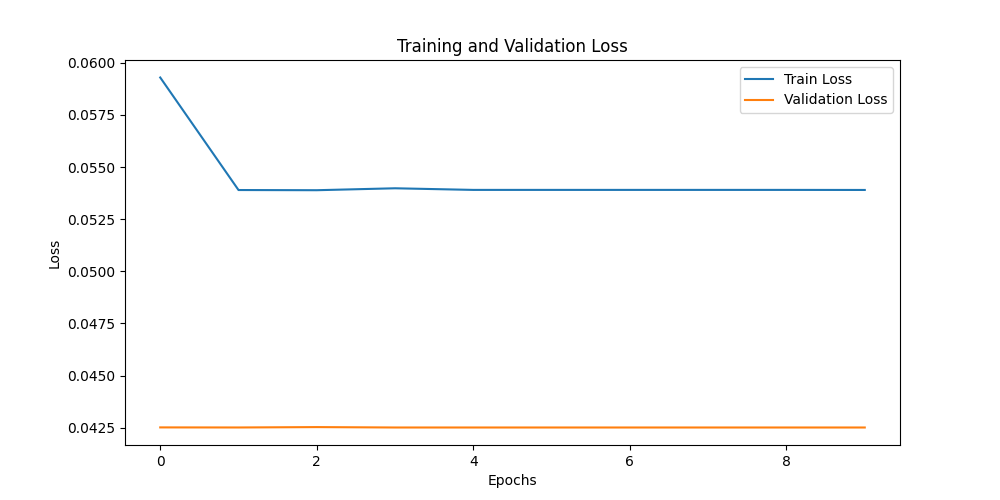
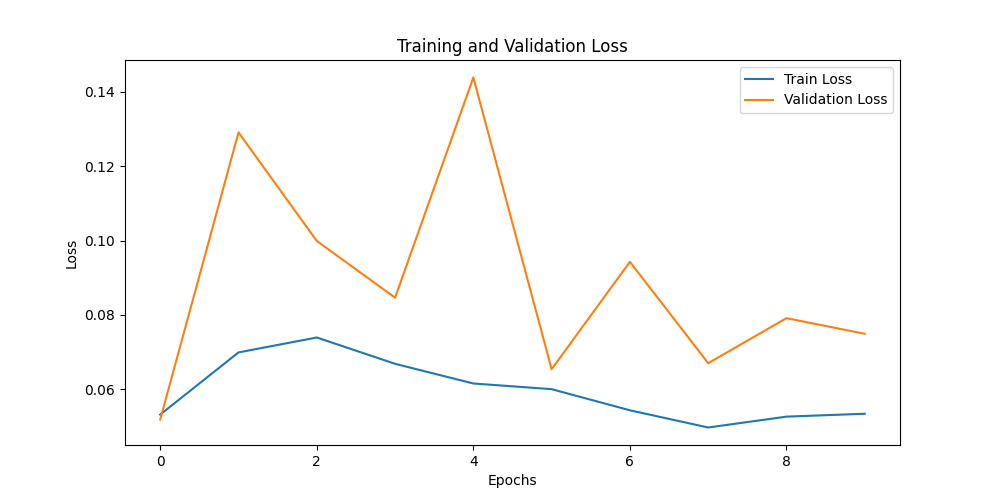
update

diff --git a/utils/trainer.py b/utils/trainer.py
@@ -1,16 +1,21 @@
 import torch
 from tqdm import tqdm
 
-# Función para calcular el MAE
 def calculate_mae(predictions, targets):
     return torch.mean(torch.abs(predictions - targets))
+
+
+def calculate_mse(predictions, targets):
+    return torch.mean((predictions - targets)**2)
 
 
 def train(epochs, model, train_dataloader, val_dataloader, optimizer, device, scheduler=None, save_every_n_epochs=5):
     history_train_loss = []
     history_train_mae = []
+    history_train_mse = []
     history_val_loss = []
     history_val_mae = []
+    history_val_mse = []
 
     # Bucle de entrenamiento y validación
     for epoch in range(epochs):
@@ -18,8 +23,9 @@ def train(epochs, model, train_dataloader, val_dataloader, optimizer, device, sc
         model.train()
         running_loss = 0.0
         running_mae_train = 0.0
+        running_mse_train = 0.0
 
-        for inputs, targets in tqdm(train_dataloader, desc=f"train epoch {epoch+1}"):
+        for inputs, targets in tqdm(train_dataloader, desc=f"train epoch {epoch}"):
             inputs, targets = inputs.to(device), targets.to(device)
             optimizer.zero_grad()
 
@@ -33,39 +39,46 @@ def train(epochs, model, train_dataloader, val_dataloader, optimizer, device, sc
 
             running_loss += loss.item()
             running_mae_train += calculate_mae(outputs, targets).item()
+            running_mse_train += calculate_mse(outputs, targets).item()
 
         average_loss_train = running_loss / len(train_dataloader)
         average_mae_train = running_mae_train / len(train_dataloader)
+        average_mse_train = running_mse_train / len(train_dataloader)
         history_train_loss.append(average_loss_train)
         history_train_mae.append(average_mae_train)
+        history_train_mse.append(average_mse_train)
 
         # Bucle de validación
         model.eval()
         running_mae_val = 0.0
+        running_mse_val = 0.0
         running_loss_val = 0.0
 
         with torch.no_grad():
-            for inputs, targets in tqdm(val_dataloader, desc=f"val epoch {epoch+1}"):
+            for inputs, targets in tqdm(val_dataloader, desc=f"val epoch {epoch}"):
                 inputs, targets = inputs.to(device), targets.to(device)
 
                 outputs = model(inputs)
                 loss_val = torch.nn.MSELoss()(outputs, targets)
                 running_loss_val += loss_val.item()
                 running_mae_val += calculate_mae(outputs, targets).item()
+                running_mse_val += calculate_mse(outputs, targets).item()
 
         average_loss_val = running_loss_val / len(val_dataloader)
         average_mae_val = running_mae_val / len(val_dataloader)
+        average_mse_val = running_mse_val / len(val_dataloader)
         history_val_loss.append(average_loss_val)
         history_val_mae.append(average_mae_val)
+        history_val_mse.append(average_mse_val)
 
         # Guardar el modelo cada n epochs y el último modelo entrenado
         if epoch % save_every_n_epochs == 0 or epoch == epochs - 1:
             # Guardar el modelo
-            torch.save(model.state_dict(), f'weights/model_epoch_{epoch+1}.pth')
+            torch.save(model.state_dict(), f'weights/model_epoch_{epoch}.pth')
 
         # Imprimir métricas
         print(f"Epoch {epoch + 1}/{epochs} -> "
-              f"Train Loss: {average_loss_train:.4f}, Train MAE: {average_mae_train:.4f}, "
-              f"Val Loss: {average_loss_val:.4f}, Val MAE: {average_mae_val:.4f}")
+              f"Train Loss: {average_loss_train:.4f}, Train MAE: {average_mae_train:.4f}, Train MSE: {average_mse_train:.4f}, "
+              f"Val Loss: {average_loss_val:.4f}, Val MAE: {average_mae_val:.4f}, Val MSE: {average_mse_val:.4f}")
 
-    return history_train_loss, history_train_mae, history_val_loss, history_val_mae
+    return history_train_loss, history_train_mae, history_train_mse, history_val_loss, history_val_mae, history_val_mse

diff --git a/utils/models/model.py b/utils/models/model.py
@@ -10,49 +10,41 @@ class NET(nn.Module):
     def __init__(self, channels_in, channels, num_classes):
         super().__init__()
 
-        self.conv1a = VggBlock(channels_in, channels)
-        self.drop1 = nn.Dropout2d(0.2)
-        self.conv1b = DoubleResnet(channels)
+        self.conv1 = VggBlock(channels_in, channels)
+        self.drop1 = nn.Dropout2d(0.4)
         self.down_conv1 = DownSampling(channels, 2*channels)
 
-        self.conv2a = DoubleResnet(2*channels)
-        self.drop2 = nn.Dropout2d(0.2)
-        self.conv2b = DoubleResnet(2*channels)
+        self.conv2 = DoubleResnet(2*channels)
+        self.drop2 = nn.Dropout2d(0.4)
         self.down_conv2 = DownSampling(2*channels, 4*channels)
 
-        self.conv3a = DoubleResnet(4*channels)
-        self.drop3 = nn.Dropout2d(0.2)
-        self.conv3b = DoubleResnet(4*channels)
+        self.conv3 = DoubleResnet(4*channels)
+        self.drop3 = nn.Dropout2d(0.4)
         self.down_conv3 = DownSampling(4*channels, 8*channels)
 
-        self.conv4a = DoubleResnet(8*channels)
-        self.drop4 = nn.Dropout2d(0.2)
-        self.conv4b = DoubleResnet(8*channels)
+        self.conv4 = DoubleResnet(8*channels)
+        self.drop4 = nn.Dropout2d(0.4)
         self.down_conv4 = DownSampling(8*channels, 16*channels)
 
-        # self.global_avg_pooling = nn.AdaptiveAvgPool2d(1)
-        # self.fc = nn.Conv2d(16*channels, num_classes,
-        #                     kernel_size=1, stride=1, padding=0)
+        self.global_avg_pooling = nn.AdaptiveAvgPool2d(1)
+        self.fc = nn.Conv2d(16*channels, num_classes,
+                            kernel_size=1, stride=1, padding=0)
 
     def forward(self, x):
-        x = self.conv1a(x)
+        x = self.conv1(x)
         x = self.drop1(x)
-        x = self.conv1b(x)
         x = self.down_conv1(x)
 
-        x = self.conv2a(x)
+        x = self.conv2(x)
         x = self.drop2(x)
-        x = self.conv2b(x)
         x = self.down_conv2(x)
 
-        x = self.conv3a(x)
+        x = self.conv3(x)
         x = self.drop2(x)
-        x = self.conv3b(x)
         x = self.down_conv3(x)
 
-        x = self.conv4a(x)
+        x = self.conv4(x)
         x = self.drop4(x)
-        x = self.conv4b(x)
         x = self.down_conv4(x)
 
         x = self.global_avg_pooling(x)

diff --git a/train_phone_finder.py b/train_phone_finder.py
@@ -18,7 +18,7 @@ from torch.optim.lr_scheduler import OneCycleLR
 EPOCHS = 10
 BATCH_SIZE = 2
 VAL_SPLIT = 0.2
-LR = 2e-4
+LR = 3e-4
 DEVICE = torch.device("cuda" if torch.cuda.is_available() else "cpu")
 
 
@@ -32,7 +32,7 @@ def get_dataloaders(path):
         ], p=0.5)
     ])
 
-    dataset = DatasetPhone(path, data_transform)
+    dataset = DatasetPhone(path)
     dataset_size = len(dataset)
 
     val_size = int(VAL_SPLIT * dataset_size)
@@ -77,16 +77,18 @@ def main():
         scheduler = OneCycleLR(optimizer, max_lr=LR,
                                total_steps=len(train_dataloader)*EPOCHS)
 
-        history_train_loss, history_train_mae, history_val_loss, history_val_mae = train(EPOCHS,
+        history_train_loss, history_train_mae, history_train_mse, history_val_loss, history_val_mae, history_val_mse = train(EPOCHS,
                                                                                          model,
                                                                                          train_dataloader,
                                                                                          val_dataloader,
                                                                                          optimizer,
                                                                                          DEVICE,
-                                                                                         scheduler=scheduler)
+                                                                                         scheduler=scheduler,
+                                                                                         save_every_n_epochs=1)
 
         plot(history_train_loss, history_val_loss, name='Loss')
         plot(history_train_mae, history_val_mae, name='MAE')
+        plot(history_train_mse, history_val_mse, name='MSE')
 
     else:
         print('Please provide a valid data_folder that meets the required format for training.')
